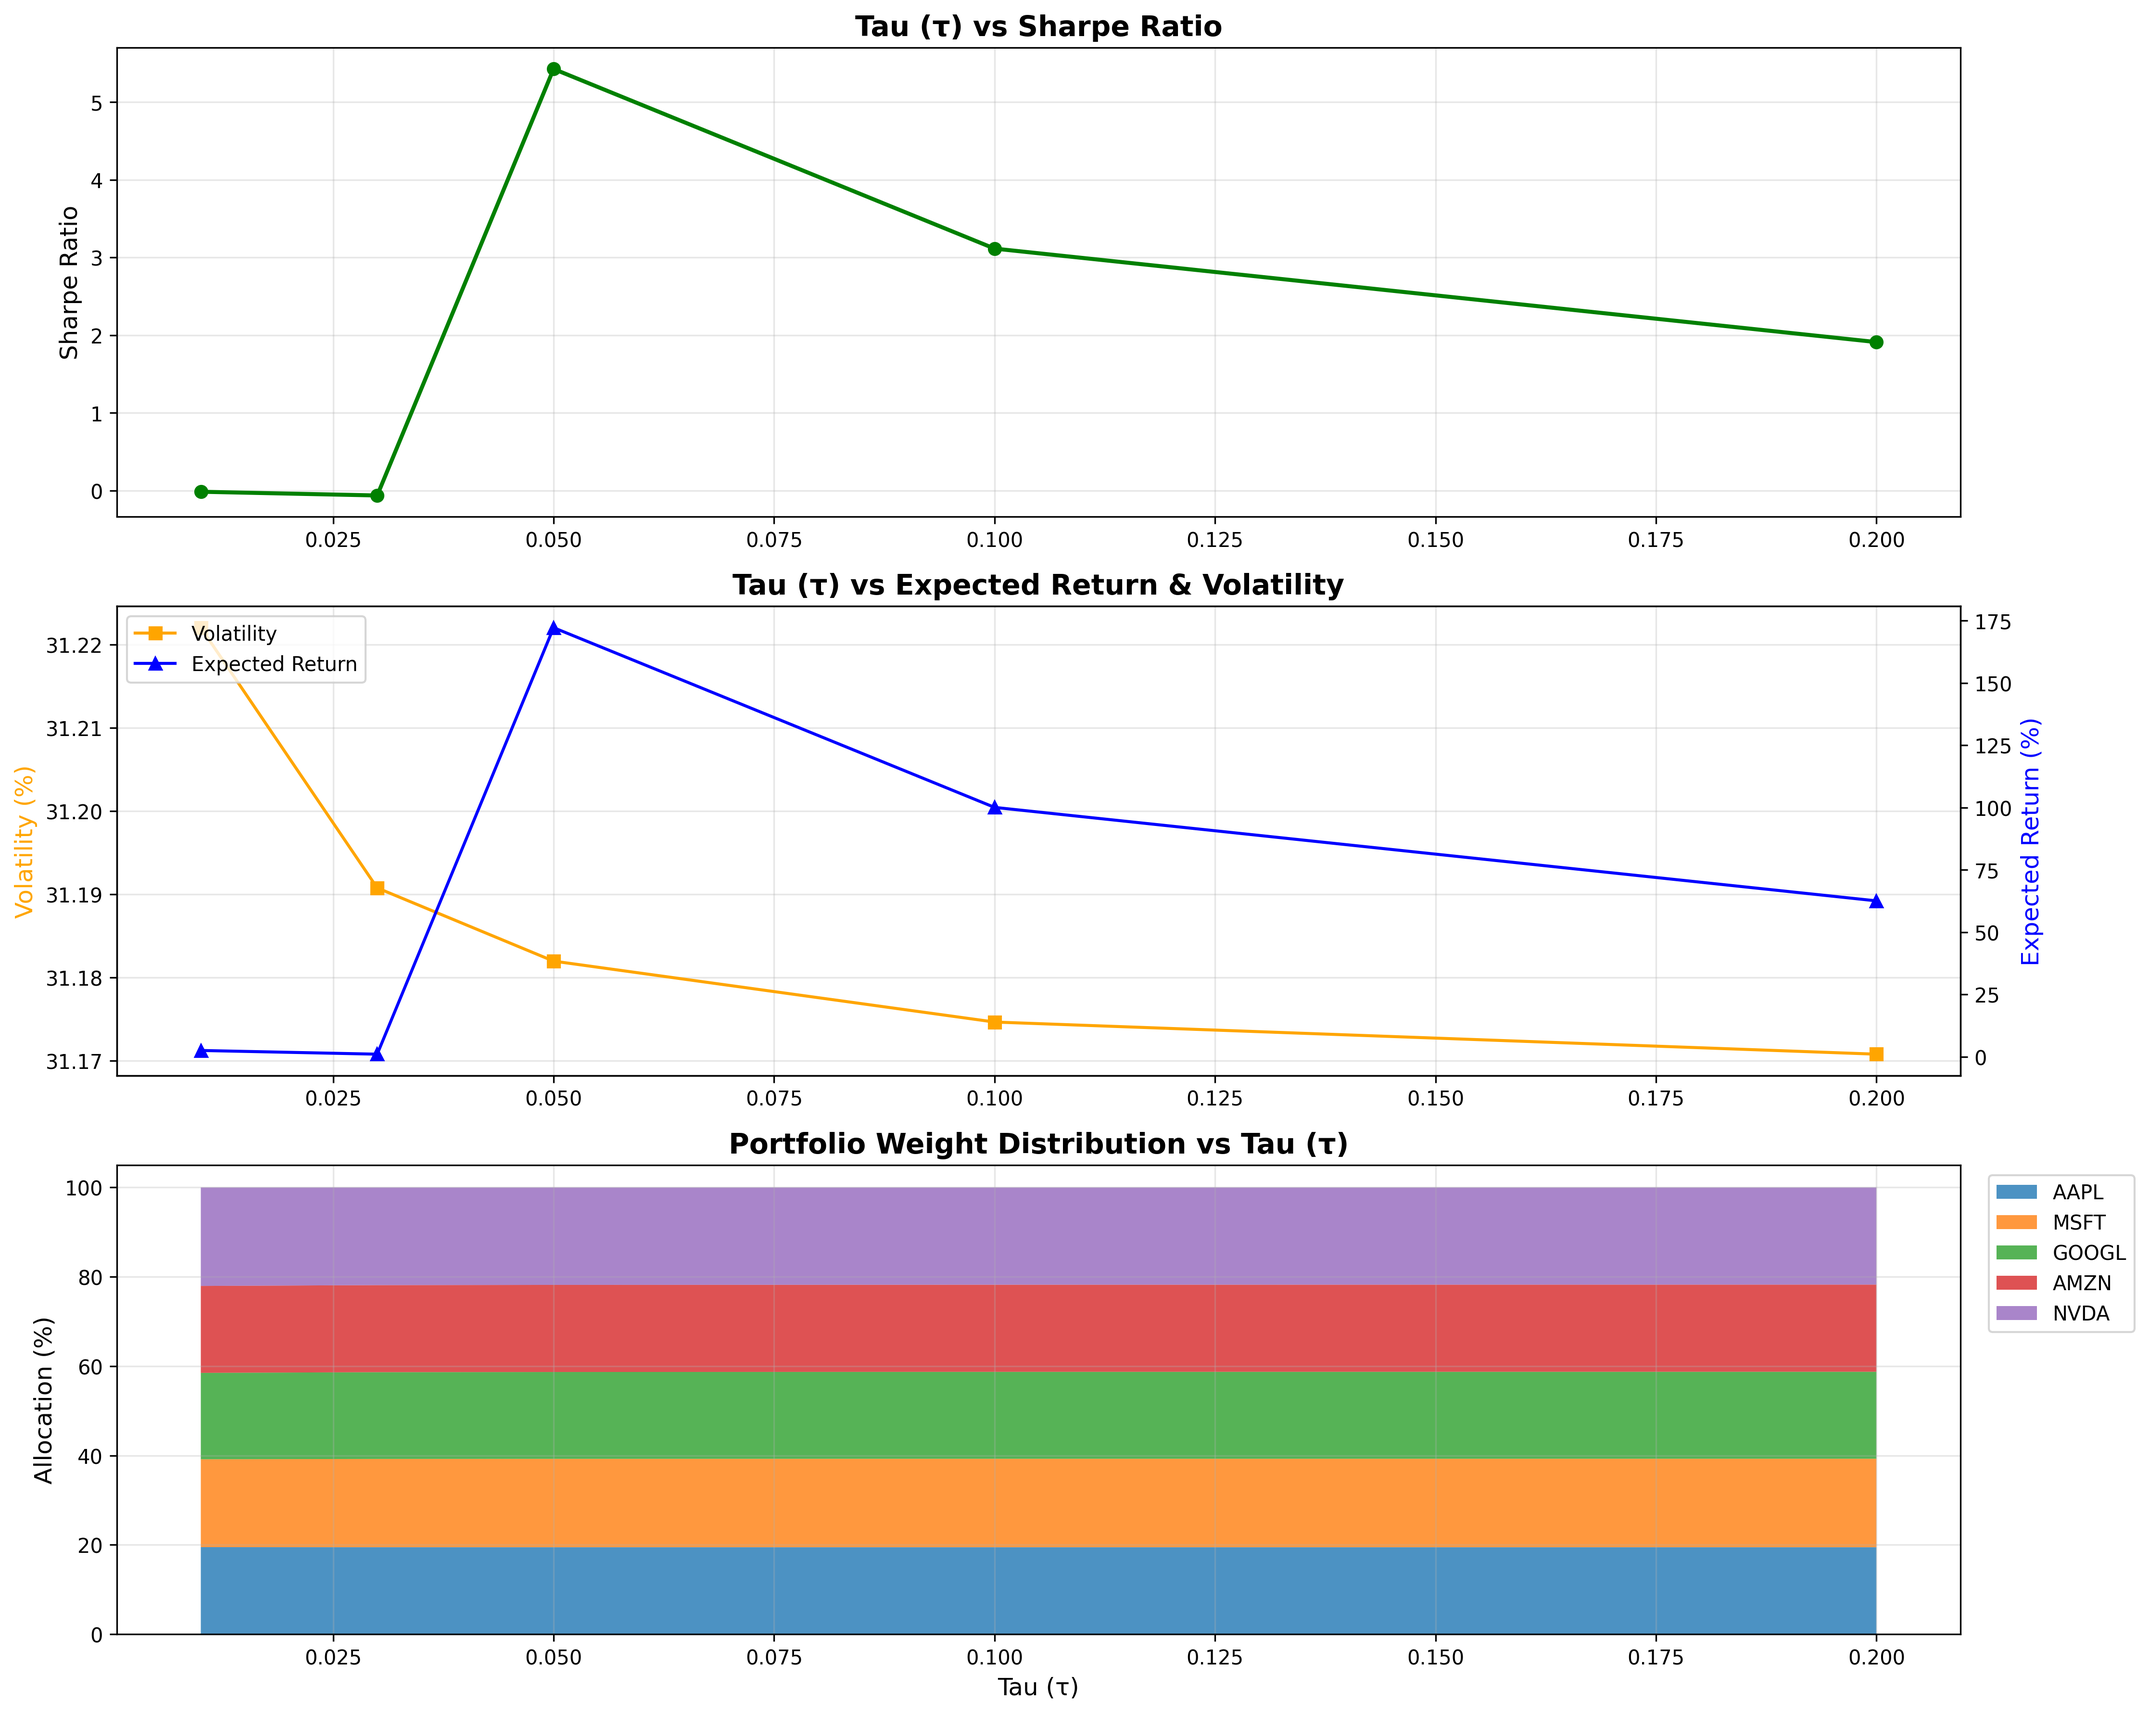
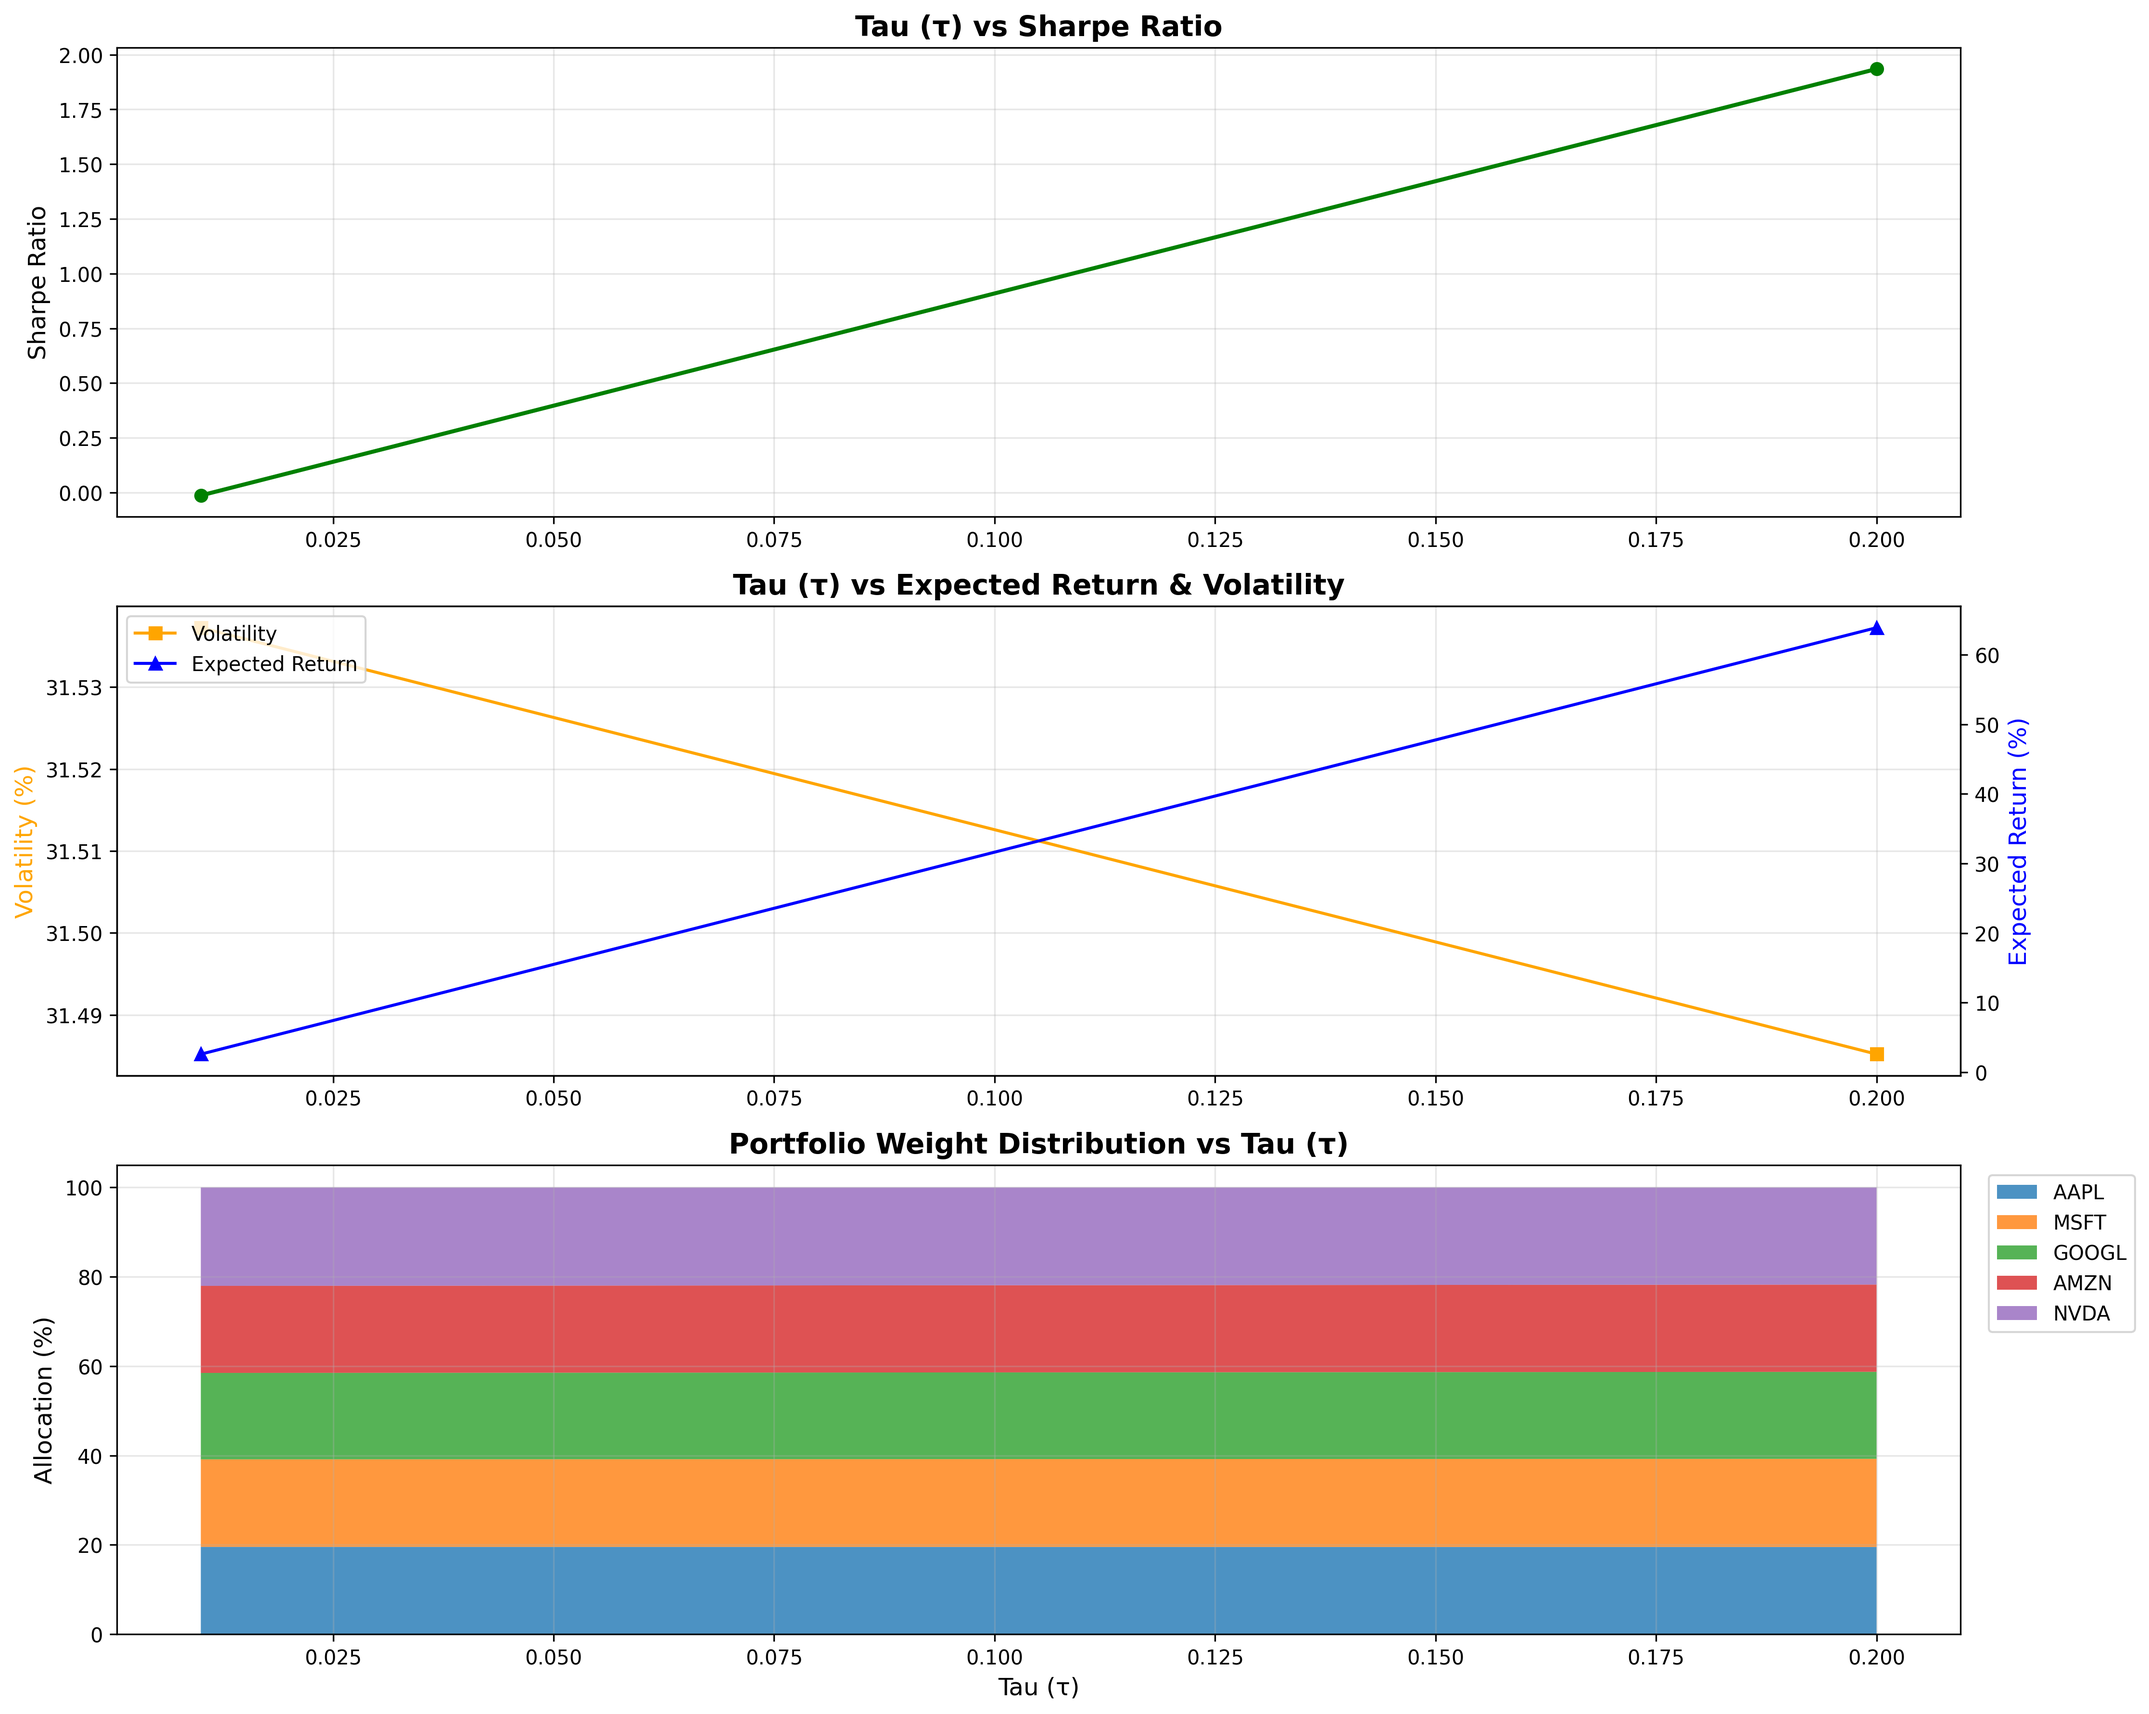
Add final Robustness Generator orchestrator script

diff --git a/generate_robustness_report.py b/generate_robustness_report.py
@@ -1,0 +1,215 @@
+import pandas as pd
+import numpy as np
+import os
+import warnings
+warnings.filterwarnings('ignore')
+
+# Import core analytical modules
+from portfolio_optimization import BlackLittermanOptimizer
+from backtesting import run_comprehensive_backtest
+from stress_testing import HistoricalStressTester
+
+
+def build_robustness_summary():
+    """
+    Master orchestrator script to sequentially boot and map metrics from:
+    1. The core BL Optimizer (Tau Sensitivity)
+    2. The core BL Optimizer (Lambda Sensitivity)
+    3. The Rolling Backtester (2018-2024 Out-Of-Sample Net Returns)
+    4. The Historical Stress Tester (2008 Deep Crash Geometric Drawdowns)
+    """
+    print("="*80)
+    print("INITIALIZING MASTER ROBUSTNESS AGGREGATION PIPELINE")
+    print("="*80)
+    
+    # ----------------------------------------------------
+    # Configuration Space
+    # ----------------------------------------------------
+    tickers = ['AAPL', 'MSFT', 'GOOGL', 'AMZN', 'NVDA']
+    base_start = '2019-01-01'  # Keep it slightly tighter for rapid backtester matrix evaluation
+    base_end = '2024-01-01'
+    save_dir = "results"
+    
+    views = {
+        'AAPL': 0.12,
+        'MSFT': 0.10,
+        'GOOGL': 0.11,
+        'AMZN': 0.14,
+        'NVDA': 0.15
+    }
+    
+    confidence = {
+        'AAPL': 0.60,
+        'MSFT': 0.50,
+        'GOOGL': 0.40,
+        'AMZN': 0.45,
+        'NVDA': 0.65
+    }
+    
+    # Primary Data Output Struct
+    summary_data = []
+    
+    # Ensure export dir exists
+    os.makedirs(save_dir, exist_ok=True)
+    
+    # ----------------------------------------------------
+    # Module 1: Optimizer Analytics (Tau + Lambda)
+    # ----------------------------------------------------
+    print(f"\n[1/4] Booting Core Optimizer ({base_start} to {base_end})...")
+    opt = BlackLittermanOptimizer(tickers, base_start, base_end)
+    
+    print("      >> Executing parameter extraction sweeps...")
+    # Silence the deep prints from the components temporarily for the main pipeline
+    import sys
+    import logging
+    
+    # Run Tau Sensitivity (0.01 vs 0.20)
+    tau_vals = [0.01, 0.2] 
+    df_tau = opt.run_tau_sensitivity(views, confidence, tau_values=tau_vals, save_dir=save_dir)
+    
+    # Tau Variance Metrics: How does the model shift identically from Minimum Uncertainty vs Maximum?
+    expected_return_shift = df_tau.loc[0.2, 'Expected Return'] - df_tau.loc[0.01, 'Expected Return']
+    sharpe_shift = df_tau.loc[0.2, 'Sharpe Ratio'] - df_tau.loc[0.01, 'Sharpe Ratio']
+    
+    summary_data.append({
+        'Category': 'Tau Sensitivity (\u03C4)',
+        'Metric': 'Expected Return Shift (0.01 -> 0.20)',
+        'Black-Litterman': f"{(expected_return_shift * 100):.2f}%",
+        'Markowitz': 'N/A (Static)',
+        'S&P 500': 'N/A'
+    })
+    summary_data.append({
+        'Category': 'Tau Sensitivity (\u03C4)',
+        'Metric': 'Sharpe Ratio Shift (0.01 -> 0.20)',
+        'Black-Litterman': f"{sharpe_shift:.3f}",
+        'Markowitz': 'N/A (Static)',
+        'S&P 500': 'N/A'
+    })
+    
+    # Run Lambda Sensitivity (Risk Aversion 1.5 vs 4.0)
+    lam_vals = [1.5, 4.0]
+    df_lam = opt.run_lambda_sensitivity(views, confidence, lambda_values=lam_vals, save_dir=save_dir)
+    
+    vol_shift = df_lam.loc[4.0, 'Volatility'] - df_lam.loc[1.5, 'Volatility']
+    expected_return_shift_lam = df_lam.loc[4.0, 'Expected Return'] - df_lam.loc[1.5, 'Expected Return']
+    
+    summary_data.append({
+        'Category': 'Lambda Sensitivity (\u03BB)',
+        'Metric': 'Volatility Shift (1.5 -> 4.0)',
+        'Black-Litterman': f"{(vol_shift * 100):.2f}%",
+        'Markowitz': 'N/A (Static)',
+        'S&P 500': 'N/A'
+    })
+    summary_data.append({
+        'Category': 'Lambda Sensitivity (\u03BB)',
+        'Metric': 'Expected Return Drop (1.5 -> 4.0)',
+        'Black-Litterman': f"{(expected_return_shift_lam * 100):.2f}%",
+        'Markowitz': 'N/A (Static)',
+        'S&P 500': 'N/A'
+    })
+    
+    # ----------------------------------------------------
+    # Module 2: The Rolling Backtester
+    # ----------------------------------------------------
+    print(f"\n[2/4] Booting Portfolio Backtester (252-day Rolling Model)...")
+    
+    print("      >> Executing iterative Out-of-Sample trajectories...")
+    results, _, _ = run_comprehensive_backtest(opt, views)
+    
+    # Extract Annualized Out-Of-Sample Data via Net Series
+    def extract_annualized_net(model_name):
+         daily_net = results[model_name]['net']
+         ret = daily_net.mean() * 252
+         vol = daily_net.std() * np.sqrt(252)
+         cum_rets = (1 + daily_net).cumprod()
+         drawdowns = (cum_rets - cum_rets.cummax()) / cum_rets.cummax()
+         max_dd = drawdowns.min()
+         return ret, vol, max_dd
+        
+    bl_ret, bl_vol, bl_dd = extract_annualized_net('black_litterman')
+    mw_ret, mw_vol, mw_dd = extract_annualized_net('markowitz')
+    
+    # Needs explicit benchmark array aligned
+    sp5_returns = results['sp500']
+    
+    sp5_ret = sp5_returns.mean() * 252
+    sp5_cum = (1 + sp5_returns).cumprod()
+    sp5_dd = ((sp5_cum - sp5_cum.cummax()) / sp5_cum.cummax()).min()
+    
+    summary_data.append({
+        'Category': 'Rolling Backtest (2018-2024)',
+        'Metric': 'Net Annualized Return',
+        'Black-Litterman': f"{(bl_ret * 100):.2f}%",
+        'Markowitz': f"{(mw_ret * 100):.2f}%",
+        'S&P 500': f"{(sp5_ret * 100):.2f}%"
+    })
+    summary_data.append({
+        'Category': 'Rolling Backtest (2018-2024)',
+        'Metric': 'Maximum Drawdown',
+        'Black-Litterman': f"{(bl_dd * 100):.2f}%",
+        'Markowitz': f"{(mw_dd * 100):.2f}%",
+        'S&P 500': f"{(sp5_dd * 100):.2f}%"
+    })
+    summary_data.append({
+        'Category': 'Rolling Backtest (2018-2024)',
+        'Metric': 'Annual Cost Drag (Fees)',
+        'Black-Litterman': f"{(results['cost_impact']['black_litterman'] * 10000):.1f} bps",
+        'Markowitz': f"{(results['cost_impact']['markowitz'] * 10000):.1f} bps",
+        'S&P 500': '0.0 bps'
+    })
+    
+    # ----------------------------------------------------
+    # Module 3: Historical Stress Testing (2008 Crash)
+    # ----------------------------------------------------
+    print(f"\n[3/4] Booting 2008 Deep Crash Simulator...")
+    # Force use safer assets alongside broad targets simulating standard retail logic
+    stress_tickers = ['AAPL', 'MSFT', 'JNJ', 'PEP', 'PG']
+    stress_views = {'AAPL': 0.15, 'MSFT': 0.12, 'JNJ': 0.08, 'PEP': 0.09, 'PG': 0.07}
+    stress_conf = {'AAPL': 0.50, 'MSFT': 0.50, 'JNJ': 0.70, 'PEP': 0.70, 'PG': 0.70}
+    
+    tester = HistoricalStressTester(stress_tickers)
+    tester.run_training_phase(stress_views, stress_conf)
+    tester.run_stress_test()
+    tester.plot_stress_test(save_dir)
+    
+    bl_08_dd = tester.results['black_litterman']['Max Drawdown']
+    mw_08_dd = tester.results['markowitz']['Max Drawdown']
+    sp_08_dd = tester.results['benchmark']['Max Drawdown']
+    
+    bl_08_spd = tester.results['black_litterman']['Max Underwater Days']
+    mw_08_spd = tester.results['markowitz']['Max Underwater Days']
+    sp_08_spd = tester.results['benchmark']['Max Underwater Days']
+    
+    summary_data.append({
+        'Category': '2008 Shock Simulator',
+        'Metric': 'Crisis Max Drawdown (%)',
+        'Black-Litterman': f"{(bl_08_dd * 100):.2f}%",
+        'Markowitz': f"{(mw_08_dd * 100):.2f}%",
+        'S&P 500': f"{(sp_08_dd * 100):.2f}%"
+    })
+    summary_data.append({
+        'Category': '2008 Shock Simulator',
+        'Metric': 'Longest Submerged Period',
+        'Black-Litterman': f"{bl_08_spd} days",
+        'Markowitz': f"{mw_08_spd} days",
+        'S&P 500': f"{sp_08_spd} days"
+    })
+    
+    # ----------------------------------------------------
+    # Module 4: Synthesis DataFrame & Export
+    # ----------------------------------------------------
+    print("\n[4/4] Rendering Final Unified DataFrame and Exporting...")
+    master_df = pd.DataFrame(summary_data)
+    
+    export_path = os.path.join(save_dir, 'robustness_summary.csv')
+    master_df.to_csv(export_path, index=False)
+    
+    print("\n" + "="*80)
+    print("FINAL ROBUSTNESS PIPELINE METRICS")
+    print("="*80)
+    print(master_df.to_string(index=False))
+    print("="*80)
+    print(f"\n✓ Successfully exported unified robustness metrics to: {export_path}")
+
+if __name__ == "__main__":
+    build_robustness_summary()
